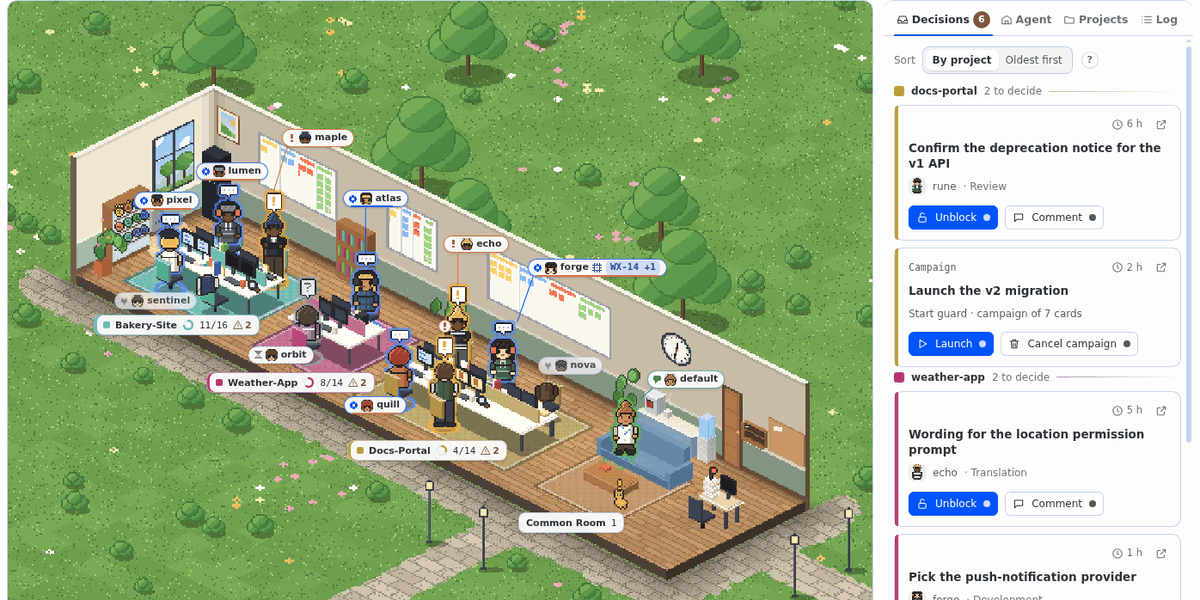
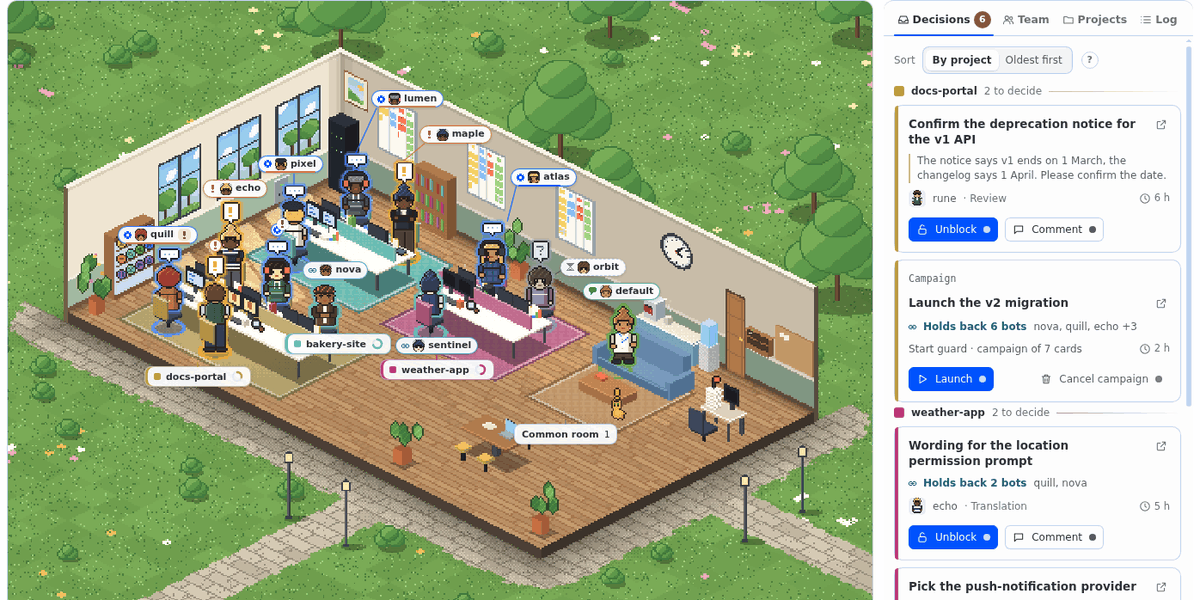
README, changelog and pictures for 0.2.0: the queued state, blocking reasons, the three-tab settings and the new header

diff --git a/README.md b/README.md
@@ -7,47 +7,96 @@
 See what your agents and kanban chains are doing — and act on them.
 
 [![CI](https://github.com/KosmGit/hermes-officecraft/actions/workflows/ci.yml/badge.svg)](https://github.com/KosmGit/hermes-officecraft/actions/workflows/ci.yml)
+[![Version 0.2.0](https://img.shields.io/badge/version-0.2.0-f59e0b)](CHANGELOG.md)
 [![License: MIT](https://img.shields.io/badge/license-MIT-blue.svg)](LICENSE)
 ![Hermes Agent ≥ 0.23](https://img.shields.io/badge/Hermes%20Agent-%E2%89%A5%200.23-7c3aed)
 ![Languages: EN · FR · ES](https://img.shields.io/badge/languages-EN%20%C2%B7%20FR%20%C2%B7%20ES-0ea5e9)
 
-<img src="docs/images/scene-day.webp" alt="The Officecraft page: an isometric pixel-art office with twelve agents at their desks, three projects with their counters, and a side panel listing the cards that wait for a decision." width="900">
+[Features](#features) · [Install](#install) · [How it works](#how-it-works) · [Privacy and safety](#privacy-and-safety) · [Development](#development)
+
+<img src="docs/images/scene-day.webp" alt="The Officecraft page: an isometric pixel-art office with twelve agents at their desks, three projects in the bar below, and a side panel listing the cards that wait for a decision with the reason each bot gave." width="900">
 
 </div>
 
-Officecraft draws your Hermes profiles as people in an isometric office, one island per kanban board. At a glance you see who is working, who went silent, which cards are blocked and waiting for you, and whether the gateway, messaging and scheduled jobs are healthy.
+Officecraft draws your Hermes profiles as people in an isometric office, one island per kanban board. At a glance you see who is working, who went silent, who is queued behind a colleague, which cards are blocked and waiting for you, and whether the gateway, messaging and scheduled jobs are healthy.
 
 **Nothing is simulated.** Every desk, state and counter is read from your Hermes backend. An empty office is preferred to a fake one.
 
 ## Features
 
-| | |
-|---|---|
-| **Live office** | One desk per agent, one island per project. States are read, not declared: *working*, *recent session*, *waiting for you*, *silent*, *idle*. |
-| **Decisions inbox** | Blocked cards and approval requests, grouped by project. Unblock, comment or answer without leaving the page. |
-| **Campaigns** | Compose a graph of cards, preview it, create it in one write. A guard card holds everything until you press *Launch*. |
-| **Recruit** | Create a new bot from the office: identity, starting point, model and provider. |
-| **Replay & Resources** | Put the office back as it was last night; read tokens, calls and costs as Hermes recorded them. |
-| **Notifications** | Decisions, silent agents, the Hermes gateway, scheduled jobs and more, on the messaging apps Hermes already serves. Off by default. |
-| **Game layer** | 35 trophies, an office level and agent grades, all recomputed from your real history. One switch turns it off. |
-| **LLM functions** | Ten optional helpers (draft a recruitment, propose a campaign graph, decorate the office…). All off by default, capped per month, and a model never creates anything without your click. |
-
 <table>
   <tr>
-    <td width="50%"><img src="docs/images/scene-night.webp" alt="The office at night with an agent selected: the Team tab lists its running cards, model and skills."></td>
-    <td width="50%"><img src="docs/images/scene-live.gif" alt="A short loop of the office: agents type at their desks while exclamation marks flag the cards that wait for a decision."></td>
+    <td width="50%" valign="top">
+      <h3>Decide from the office</h3>
+      Blocked cards and approval requests land in one inbox, grouped by project, each with the reason its bot gave. A card that holds other bots back says how many. Unblock, comment or answer without leaving the page.
+    </td>
+    <td width="50%" valign="top">
+      <h3>See who waits for whom</h3>
+      A bot whose card waits for a colleague's work is <em>queued</em>, not idle. Select it: the office follows the chain up to the card at its head, and tells you when that card is the one waiting for you.
+    </td>
+  </tr>
+  <tr>
+    <td align="center"><img src="docs/images/decisions.webp" alt="The Decisions tab: cards grouped by project, each with the reason it is blocked, how many bots it holds back, and its Unblock and Comment buttons." width="352"></td>
+    <td><img src="docs/images/scene-queue.webp" alt="A queued agent selected: its sheet says which colleague it waits for and who is at the head of the queue, and the scene outlines the agents upstream."></td>
+  </tr>
+  <tr>
+    <td valign="top">
+      <h3>Plan a campaign</h3>
+      Compose a graph of cards from a template or by hand, preview it, create it in one write. A guard card holds everything until you press <em>Launch</em>.
+    </td>
+    <td valign="top">
+      <h3>Recruit a bot</h3>
+      Name it, say what it takes and what it delivers, pick a starting point and a model. The character is drawn as you type.
+    </td>
   </tr>
   <tr>
     <td><img src="docs/images/campaign.webp" alt="The Campaign editor: an objective, cards with a bot each, and the previewed graph under its guard."></td>
+    <td><img src="docs/images/recruit.webp" alt="The Recruit window: identity with a live character preview and the bot types, then the model and provider list."></td>
+  </tr>
+  <tr>
+    <td valign="top">
+      <h3>Night shift, live</h3>
+      The office follows the clock and your theme. Agents type, think and raise a sign when a card of theirs needs you.
+    </td>
+    <td valign="top">
+      <h3>A game on real facts</h3>
+      35 trophies, an office level and agent grades, all recomputed from your history. One switch turns it off.
+    </td>
+  </tr>
+  <tr>
+    <td><img src="docs/images/scene-night.webp" alt="The office at night with an agent selected: the Team tab lists the card that waits for you, its running cards, model and skills."></td>
     <td><img src="docs/images/trophies.webp" alt="The trophy showcase: office level, trophies closest to unlocking, and shelves of pixel-art medals."></td>
   </tr>
   <tr>
-    <td><img src="docs/images/recruit.webp" alt="The Recruit window: identity with a live character preview, then the model and provider list."></td>
+    <td align="center"><img src="docs/images/scene-live.gif" alt="A short loop of the office: agents type at their desks while exclamation marks flag the cards that wait for a decision."></td>
     <td align="center"><img src="docs/images/mobile.webp" alt="The page in a narrow pane: the office as a list, and the Decisions view with its bottom bar." width="420"></td>
   </tr>
 </table>
 
 <sub>Screenshots use a made-up team and made-up projects. The screens themselves are the real ones.</sub>
+
+**Also in the box**
+
+| | |
+|---|---|
+| **Replay & Resources** | Put the office back as it was last night; read the estimated cost, tokens, calls and quota as Hermes recorded them. |
+| **Notifications** | Decisions, silent agents, the Hermes gateway, scheduled jobs and more (eight types), on the messaging apps Hermes already serves. Off by default. |
+| **LLM functions** | Ten optional helpers (draft a recruitment, propose a campaign graph, decorate the office…). All off by default, capped per month, and a model never creates anything without your click. |
+| **Narrow panes and touch** | Below the size where the room stays readable the office becomes a list, and controls grow on a touch screen. |
+| **Three languages** | English, French and Spanish, with plurals, numbers and times written the way each language does. |
+
+### The states you will see
+
+States are read, never declared. The strongest one wins:
+
+| State | What it means |
+|---|---|
+| **Working** | A worker of the agent gave a sign of life in the last 2 minutes. A sign is added when another of its cards waits for you. |
+| **Waiting for you** | One of the agent's cards is blocked: the decision is yours. |
+| **Silent** | A card is running but has given no sign of life for more than 5 minutes. |
+| **Queued** | A card of the agent waits for an unfinished card it depends on, and none of its own is running or blocked. |
+| **Recent session** | No card, but a chat session touched in the last 10 minutes. |
+| **Idle** | Nothing in progress. |
 
 ## Install
 
@@ -80,17 +129,18 @@ Every action that writes follows the same rules: a risk class shown in words (*N
 ## Privacy and safety
 
 - **Reads by default, writes only what you ask for.** Nothing runs in the background except the notifications and LLM functions you switched on.
-- **Whitelisted fields only.** Shown: profile names, states, counters, timestamps, card and session titles. Never read or shown: card bodies, comments, message contents, file paths, keys, the `SOUL.md` of an existing bot.
-- **You see what you approve.** Before you allow an approval request from the office, the confirmation shows the command exactly as Hermes provides it (already redacted). It is shown, never stored.
-- **Every action is logged** in an `audit.jsonl` readable by you only, in the data folder Hermes gives the plugin. It never holds a comment's text, a title or a command.
-- **LLM functions are opt-in**, each with its own switch. The settings list exactly which fields each one sends to the model. A monthly cap ($1 and 300 calls by default) is checked before every call.
+- **Whitelisted fields only.** Shown: profile names, states, counters, timestamps, card and session titles, and the reason a bot gave when it blocked a card (cleaned, at most 280 characters). Never read or shown: card bodies, comments, message contents, file paths, keys, the `SOUL.md` of an existing bot.
+- **A blocking reason stays on the page.** A bot wrote it, so it is drawn as plain text and never put in a notification, the audit log or a prompt.
+- **You see what you approve.** Before you allow an approval request from the office, the confirmation shows the command exactly as Hermes provides it (already redacted). A command too long to be shown whole can only be refused; a tall one must be scrolled to its end before you can confirm. It is shown, never stored.
+- **Every action is logged** in an `audit.jsonl` readable by you only, in the data folder Hermes gives the plugin. It holds names and codes: never a comment's text, a title or a command.
+- **LLM functions are opt-in**, each with its own switch. The settings list exactly which fields each one sends to the model. A monthly cap ($1 and 300 calls by default) is checked before every call, and a call that fails on a priced model still counts at its worst cost. What a model receives is marked as untrusted data, and a link in its answer is refused.
 - **No telemetry, no network call of its own.** The plugin talks to your Hermes backend and to nothing else.
 
 ### What the plugin touches
 
 | | |
 |---|---|
-| **Reads, outside its own folder** | The kanban boards (cards, runs, events), the list of profiles and the headers of their skills, session metadata and token usage in each profile's `state.db`, the gateway status and the scheduled jobs. All read-only. |
+| **Reads, outside its own folder** | The kanban boards (cards, links, runs, events), the list of profiles and the headers of their skills, session metadata and token usage in each profile's `state.db`, the gateway status and the scheduled jobs. All read-only. |
 | **Writes, only on your action** | Kanban cards through Hermes (unblock, comment, create the cards of a campaign, launch or cancel it), a new profile when you recruit a bot, your answer to an approval request. |
 | **Writes, in its own data folder** | `audit.jsonl`, the notifier's state, the LLM spending counter. Page settings stay in the browser's local storage. |
 | **Sends** | Notifications through Hermes' own messaging, to the recipients you picked. Off until you choose one. |
@@ -105,9 +155,9 @@ Found a vulnerability? See [SECURITY.md](.github/SECURITY.md).
 ## Development
 
 ```bash
-npm ci --prefix dev                 # esbuild, the only dev dependency
-npm --prefix dev run build          # src/ -> desktop/plugin.js (committed)
-npm --prefix dev run verify         # bundle up to date, allowed imports, node tests
+npm ci --prefix dev --ignore-scripts   # esbuild, the only dev dependency
+npm --prefix dev run build             # src/ -> desktop/plugin.js (committed)
+npm --prefix dev run verify            # bundle up to date, allowed imports, node tests
 
 python3 -m venv .venv && .venv/bin/pip install -r requirements-dev.txt
 .venv/bin/pytest -q tests/python
@@ -122,7 +172,7 @@ python3 -m venv .venv && .venv/bin/pip install -r requirements-dev.txt
 | `plugin.yaml`, `__init__.py` | Plugin manifest and entry point. |
 | `dev/`, `tests/` | Build tooling and test suites. |
 
-Contributions are welcome: see [CONTRIBUTING.md](.github/CONTRIBUTING.md).
+What changed in each version: [CHANGELOG.md](CHANGELOG.md). Contributions are welcome: see [CONTRIBUTING.md](.github/CONTRIBUTING.md).
 
 ## License
 

diff --git a/CHANGELOG.md b/CHANGELOG.md
@@ -3,6 +3,48 @@
 All notable changes to Officecraft are listed here. The format follows [Keep a Changelog](https://keepachangelog.com/en/1.1.0/)
 and the project uses [Semantic Versioning](https://semver.org/).
 
+## [0.2.0] - 2026-11-25
+
+### Added
+
+- **Queued**, a new state: a bot whose card waits for an unfinished card it depends on is no longer shown as idle. Its
+  sheet names the colleague it waits for and the head of the queue; selecting it outlines the agents upstream.
+- The reason a bot gave when it blocked a card, on the decision card (cleaned, at most 280 characters, never sent
+  anywhere else). A decision that holds other bots back says how many.
+- A sign on a working agent that also has a card waiting for you, in the scene and in the Team list.
+- Card titles instead of technical identifiers in the agent sheet and the Log.
+
+### Changed
+
+- Header: Replay, Resources, Recruit and Campaign carry their label on a wide window; the game badge is quieter and
+  the decisions counter stands out when there is something to decide.
+- The bar under the office stays on one row: selecting an agent no longer moves the scene.
+- Recruit: the title comes before the identifier, and the bot type folds into one line.
+- Settings: three tabs instead of five (Game and Replay join General). Stored settings are unchanged.
+- Resources opens on the estimated cost.
+- Larger controls on touch screens; plurals, numbers and times follow each language.
+- The game is recomputed only when what it reads changes, and the scene redraws only when what it draws changes.
+
+### Fixed
+
+- Notifications were no longer sent on recent Hermes versions (the sending module had moved).
+- The header no longer overflows, at any width or in any language.
+- Keyboard and screen readers: focus returns to a visible control, the More menu is a real menu, one live region.
+- A past day in Resources is kept only once it can no longer change.
+
+### Security
+
+- Approvals: a command that Hermes cut, or that is missing, can only be refused; a command taller than its frame must
+  be scrolled to its end before it can be confirmed.
+- LLM cap: a call that fails on a priced model is counted at its worst cost, so failures cannot walk past the cap.
+- Every LLM call tells the model that the data it receives is untrusted; an address without a scheme (an IP, a
+  `host:port`, `//host`) in an answer is refused like any other link.
+- Audit log: a value that is not shaped like a name or a code is dropped, and the same line sent twice at once is
+  written once.
+- Nothing is notified while the notifier's state cannot be written.
+- Assignee and pinned model of a card are cleaned and bounded like its title.
+- CI checks that the lockfile resolves from the npm registry only; Python dev dependencies are pinned exactly.
+
 ## [0.1.0] - 2026-11-18
 
 First public release.
